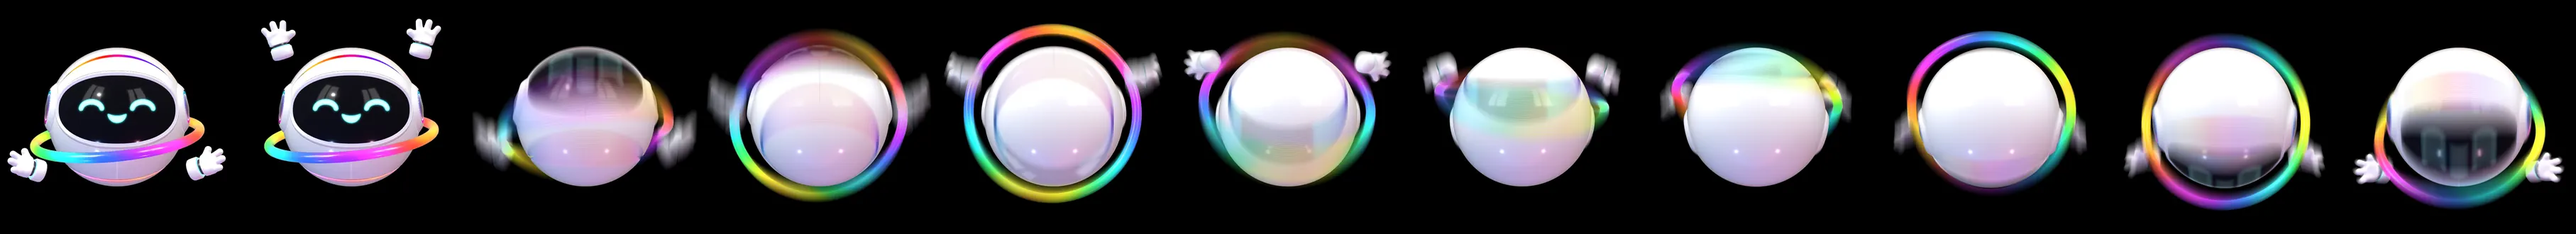
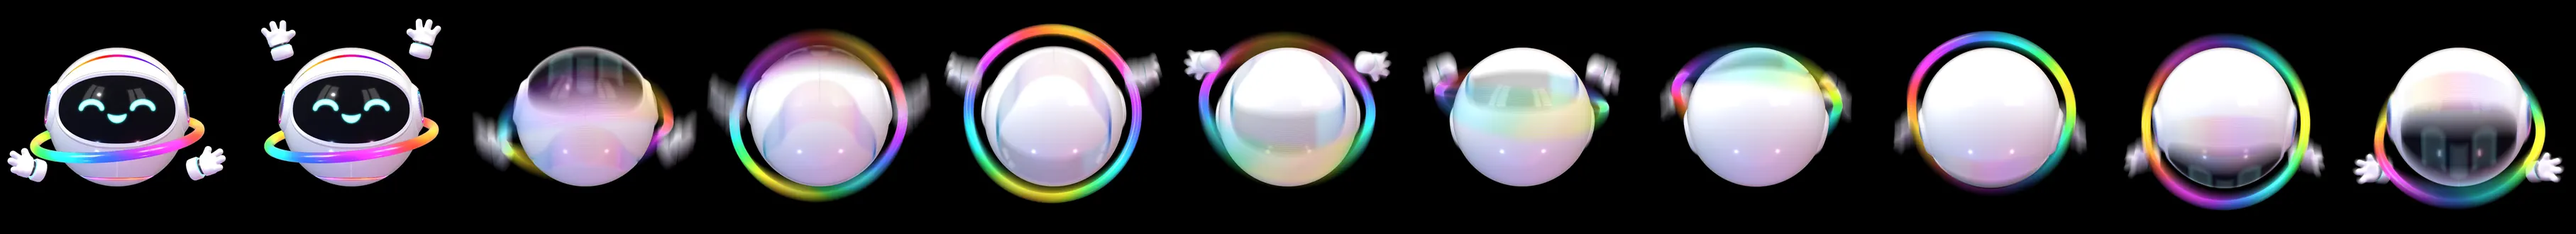
Character: the bottom cut is an S from the side, as marked on the reference
The owner marked the curve on the reference's side view: "U can see that curve
shape. Follow this". The cut is no longer a flat plane (a straight slant from the
side): it runs round the ball low and level under the face, rises in a smooth S
round each side, and stays high and level across the back, so it is even from the
front and an S from the side. Surfaces round the cut take their shading from the
shape as built. The loader pictures and the Home still are re-rendered.

Claude-Session: https://claude.ai/code/session_011BdSE2fEeiEv9ZgoYmWAPn

diff --git a/src/lib/character3d.js b/src/lib/character3d.js
@@ -325,10 +325,9 @@ export class Character {
 
   /**
    * The bottom panel and the cut round it (Lucky, 25 Nov, from reference pictures: "it has a cutting ... this bottom
-   * rack will open ... inside that cutting that light gradient light comes in"). The cut is a plane tilted only front
-   * to back, as on the reference sheet: level and even from the front, slanting up toward the back from the side
-   * ("from the front view, it should look the straight cutting ... from the side view, it should look like a reference
-   * image"). The panel is part of the same ball as the shell, so the outline stays a perfect circle with only the cut
+   * rack will open ... inside that cutting that light gradient light comes in"). The cut follows the reference sheet:
+   * level and even from the front ("from the front view, it should look the straight cutting") and an S from the side,
+   * low under the face and high across the back. The panel is part of the same ball as the shell, so the outline stays a perfect circle with only the cut
    * between them; both edges of the cut are rounded, with walls down into it; and the light is inside the cut, on the
    * panel's edge, spilling onto the panel and the walls, dark across the back. The model's own bottom (its panel,
    * groove, drawn line and the shell round them) is replaced here, and the shell is shaded as the true ball it is.
@@ -338,16 +337,20 @@ export class Character {
     body.updateMatrixWorld(true);
     const chin = body.getObjectByName("SeamChin"), seamMat = chin?.material;
     for (const n of ["Sphere_1", "Sphere_2", "LowSeam", "LowSeamGlow", "SeamChin"]) body.getObjectByName(n)?.removeFromParent();
-    // The cut: the edge of a cap round AX (down, tilted back by TILT), RHO from it; thin at the front, wide at the back.
-    const TILT = 25 * rad, RHO = 55 * rad;
-    const AX = new V3(0, -Math.cos(TILT), -Math.sin(TILT)), U = new V3(0, -Math.sin(TILT), Math.cos(TILT)), V = AX.clone().cross(U);
+    // The cut, as on the reference sheet (Lucky's markup, 25 Nov: "you can see that curve shape. Follow this"): round the
+    // ball at RHO(f) from its lowest point, f being the way round from the front. Level under the face, it rises in a
+    // smooth S round each side to high across the back, so it is even from the front and an S from the side.
+    const smooth = (t) => { const k = Math.min(1, Math.max(0, t)); return k * k * k * (k * (6 * k - 15) + 10); };
+    const FRONT = 33 * rad, BACK = 70 * rad;
+    const RHO = (f) => FRONT + (BACK - FRONT) * smooth((Math.abs(Math.atan2(Math.sin(f), Math.cos(f))) - 65 * rad) / (80 * rad));
+    const AX = new V3(0, -1, 0), U = new V3(0, 0, 1), V = AX.clone().cross(U);
     const half = (f) => 0.015 + 0.035 * Math.pow(0.5 - 0.5 * Math.cos(f), 1.3);
     const dir = (th, f) => new V3().copy(U).multiplyScalar(Math.cos(f)).addScaledVector(V, Math.sin(f)).multiplyScalar(Math.sin(th)).addScaledVector(AX, Math.cos(th));
     const tang = (th, f) => new V3().copy(U).multiplyScalar(Math.cos(f)).addScaledVector(V, Math.sin(f)).multiplyScalar(Math.cos(th)).addScaledVector(AX, -Math.sin(th));
     const polar = (q) => { const d = q.clone().normalize(); return [Math.acos(Math.max(-1, Math.min(1, d.dot(AX)))), Math.atan2(d.dot(V), d.dot(U))]; };
-    const RP = 1, BP = 0.022, BS = 0.009, FLOOR = 0.9, OUT = 72 * rad, N = 240;
-    const edgeOf = (f) => RHO - half(f) - 0.018;                         // the panel's edge
-    const wallOf = (f) => RHO + half(f) - BS;                            // the shell's wall
+    const RP = 1, BP = 0.022, BS = 0.009, FLOOR = 0.9, OUT = 80 * rad, N = 240;
+    const edgeOf = (f) => RHO(f) - half(f) - 0.018;                      // the panel's edge
+    const wallOf = (f) => RHO(f) + half(f) - BS;                         // the shell's wall
     // The shell: shaded as a ball (its points are packed small numbers: normals are rewritten, points never), and
     // open round the bottom, where the new shell edge and the panel go.
     const toPivot = new THREE.Matrix4(), toLocal = new THREE.Matrix3(), p = new V3(), nn = new V3();
@@ -386,12 +389,18 @@ export class Character {
     const toBody = new THREE.Matrix4().copy(body.matrixWorld).invert().multiply(this.pivot.matrixWorld);
     const band = (rows, material) => {
       const pos = [], nor = [], col = [], glo = [], idx = []; let m = 0;
+      const at = (q, f) => dir(q.th, f).multiplyScalar(q.r), E = 1e-3;
       for (let i = 0; i <= N; i++) {
-        const f = (i / N) * 2 * Math.PI, row = rows(f); m = row.length;
-        for (const q of row) {
-          const d = dir(q.th, f), t = tang(q.th, f), a = q.a * rad, pt = d.clone().multiplyScalar(q.r), nn = d.multiplyScalar(Math.cos(a)).addScaledVector(t, Math.sin(a));
+        const f = (i / N) * 2 * Math.PI, row = rows(f), ahead = rows(f + E), back = rows(f - E); m = row.length;
+        row.forEach((q, k) => {
+          const pt = at(q, f), d = dir(q.th, f), a = q.a * rad, want = d.clone().multiplyScalar(Math.cos(a)).addScaledVector(tang(q.th, f), Math.sin(a));
+          let nn = d;                                                     // on the ball: straight out, as the shell is
+          if (q.a) {                                                       // elsewhere: square to the surface as built
+            const along = at(ahead[k], f + E).sub(at(back[k], f - E)), down = at(row[Math.min(m - 1, k + 1)], f).sub(at(row[Math.max(0, k - 1)], f));
+            nn = down.cross(along).normalize(); if (!(nn.lengthSq() > 0.5)) nn = want; else if (nn.dot(want) < 0) nn.negate();
+          }
           pos.push(pt.x, pt.y, pt.z); nor.push(nn.x, nn.y, nn.z); col.push(...q.c); glo.push(...(q.g ?? NONE));
-        }
+        });
       }
       for (let i = 0; i < N; i++) for (let k = 0; k < m - 1; k++) { const a = i * m + k, b = a + m; idx.push(a, a + 1, b, a + 1, b + 1, b); }
       const g = new THREE.BufferGeometry();

diff --git a/LAUNCH-CHECKLIST.md b/LAUNCH-CHECKLIST.md
@@ -7,7 +7,7 @@ Tick items as they are done.
 
 - [ ] Run the full checks in CLAUDE.md: lint, types, build, `npm run audit`, Lighthouse on mobile and desktop. (Run on the staging site on 16 November 2026, results below. Run them once more on Hostinger after the move.)
 - [x] Phone speed on pagespeed.web.dev (target 97+), 17 November, after each page's main image moved to the site's own address: `/work` 97, `/services/ai-websites` 96, `/work/cabot-solutions` 96 (were 95, 90 and 94); desktop 100 on all three. A score moves a point or two between runs. Putting the styles inside each page (`inlineCss`) was tried and undone: it made phones slower.
-- [x] The "View" cursor is back (25 November, the owner approved it from a picture): a dot that follows the mouse, a ring over links and buttons, a "View" disc over work; computers with a mouse only, the normal pointer for touch screens and reduced motion (`src/components/motion/Cursor.tsx`). The character's bottom is a real panel in a cut (the owner, from four reference pictures: "it has a cutting ... this bottom rack will open ... inside that cutting that light gradient light comes in"): the cut is a plane tilted only front to back, level and even from the front and slanting up toward the back from the side, as on the reference sheet (the owner: "from the front view, it should look the straight cutting"); the panel is part of the same ball as the shell, so the outline stays a perfect circle (the owner: "there will be only the cutting in between the perfect circle"), with rounded edges and walls down into a dark slot, and the gradient light is inside the cut, on the panel's edge, spilling onto the panel and the walls, dark across the back; no soft halo, and the shell is shaded as a true ball (`bottomCut` in `src/lib/character3d.js`). The loader pictures and the Home still are re-rendered with it.
+- [x] The "View" cursor is back (25 November, the owner approved it from a picture): a dot that follows the mouse, a ring over links and buttons, a "View" disc over work; computers with a mouse only, the normal pointer for touch screens and reduced motion (`src/components/motion/Cursor.tsx`). The character's bottom is a real panel in a cut (the owner, from four reference pictures: "it has a cutting ... this bottom rack will open ... inside that cutting that light gradient light comes in"): the cut follows the reference sheet: level and even from the front (the owner: "from the front view, it should look the straight cutting") and an S from the side, low under the face, rising round each side and high across the back (the owner's markup: "U can see that curve shape. Follow this"); the panel is part of the same ball as the shell, so the outline stays a perfect circle (the owner: "there will be only the cutting in between the perfect circle"), with rounded edges and walls down into a dark slot, and the gradient light is inside the cut, on the panel's edge, spilling onto the panel and the walls, dark across the back; no soft halo, and the shell is shaded as a true ball (`bottomCut` in `src/lib/character3d.js`). The loader pictures and the Home still are re-rendered with it.
 - [x] Home speed with the backflip loader (25 November, the owner's pagespeed.web.dev run, a first visit with the loader): phone 97, desktop 97; accessibility, best practices and SEO 100. The loader hides the page for about 1.5 s on purpose, which is what keeps desktop off 100 (100 with it skipped in our own test).
 - [x] Phone speed on Home since the first-visit character intro went live (19 November): pagespeed.web.dev on 20 November (the owner's run, a first visit with the intro): phone 98, desktop 98; accessibility, best practices and SEO 100. Lighthouse in the test environment gave 97 to 99 (50 before that day's fixes). Desktop is a point under the 99 goal: what is left is the intro covering the first screen while it plays; repeat visits skip it.
 - [x] Firefox (20 November): Firefox 160 from Mozilla's own package source (the owner allowed `packages.mozilla.org` in the test environment). Every page at phone, tablet and desktop widths (102 page loads) and the click-through checks: all fine. Fixed on the way: a case study's website address wrapped mid-word on phones ("cabotsolutions.co / m"); it now breaks before the ending ("cabotsolutions / .com").
